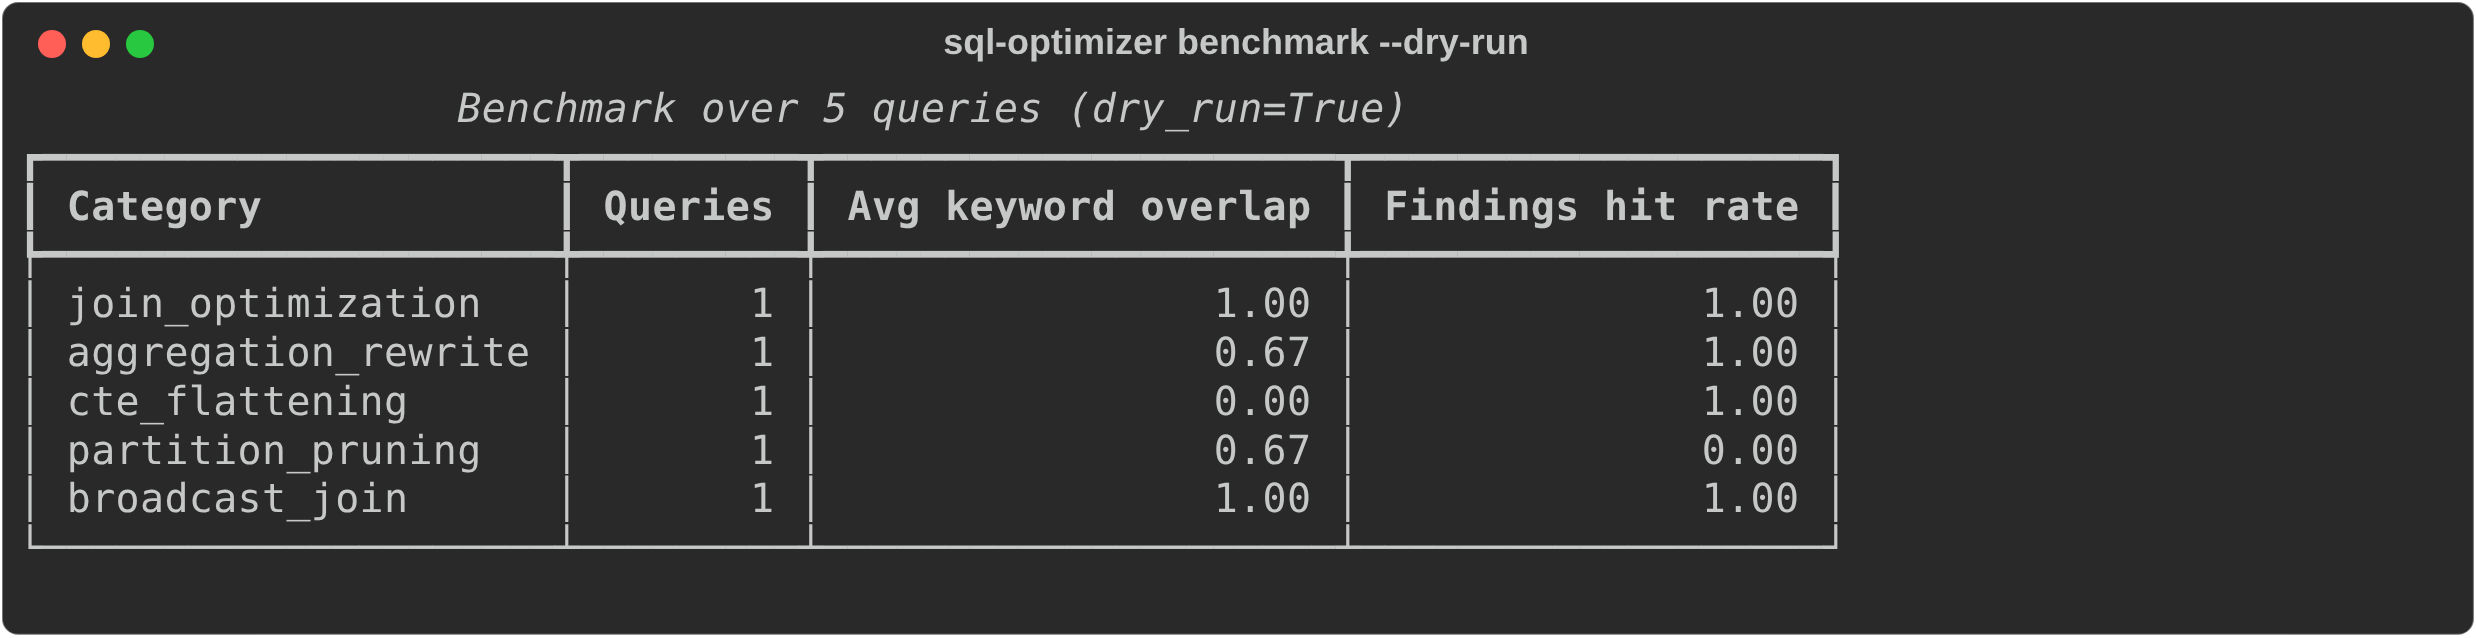
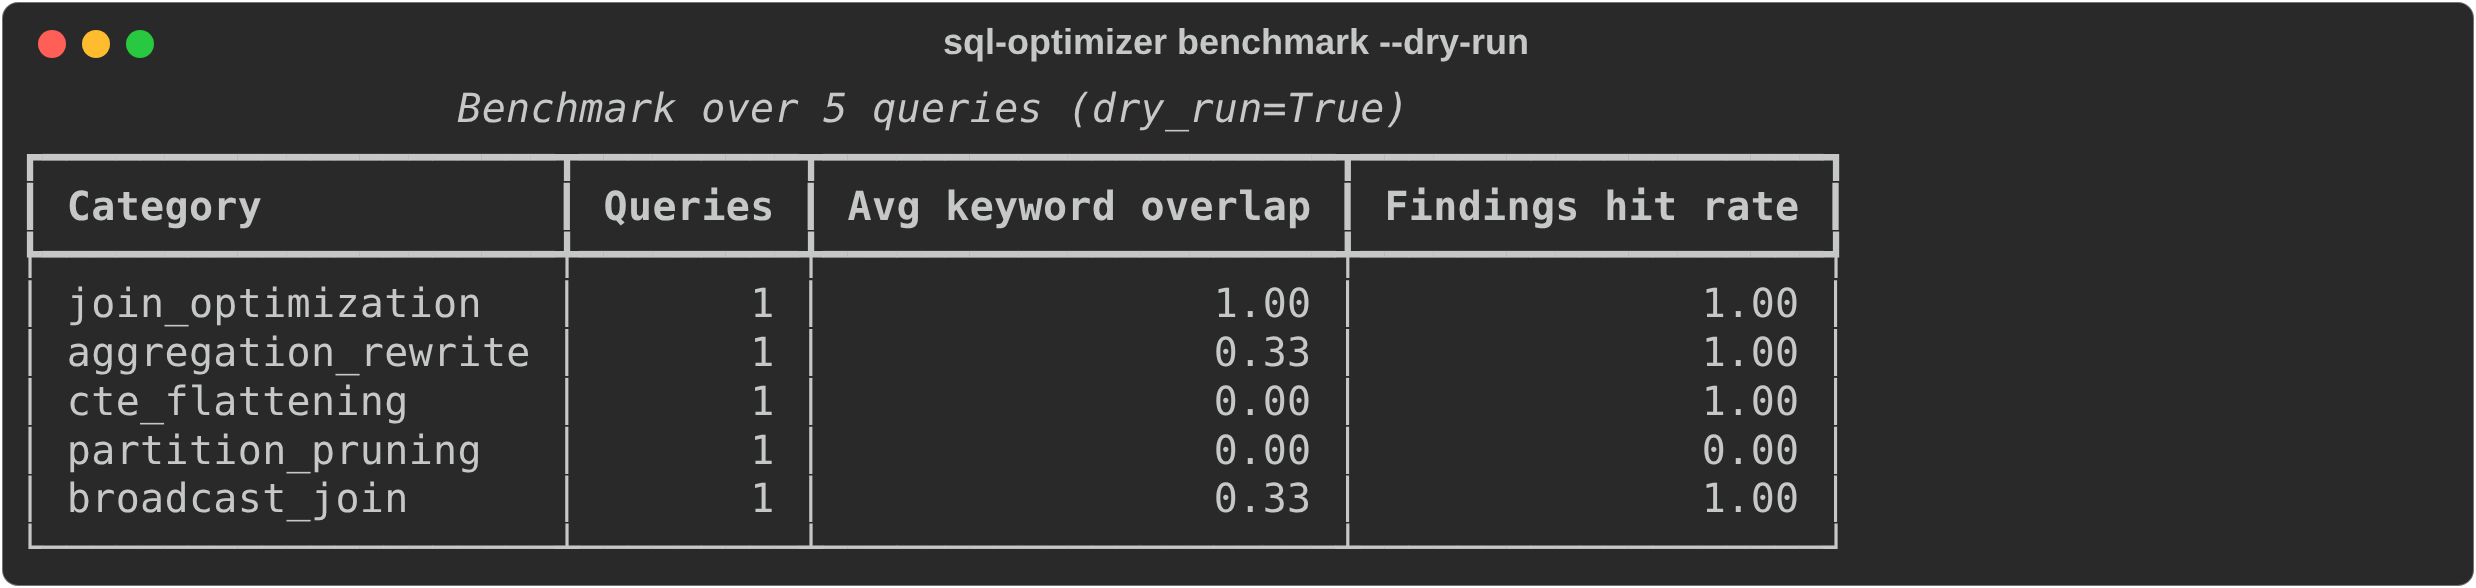
fix(sql-optimizer): score keyword overlap on tool output, not the query
benchmark._score() searched (sql + " ".join(findings)), so any expected
keyword already in the input query - table names, JOIN, words in the
explanatory comments - counted as a hit the analyzer never earned, and
the query's last token fused with the first finding. It now searches
only tool output: the finding messages, plus Claude's rewrite and
reasoning via keyword-only slots for a future live mode, joined with
newlines. findings_hit is unchanged.

Re-measured with make benchmark on 2026-10-05: mean keyword overlap is
0.33 (was 0.67). aggregation_rewrite and broadcast_join drop to 0.33,
and partition_pruning drops to 0.00 because it gets no finding.
Findings hit rate is unchanged at 4/5.

- tests: a keyword present only in the query text does not count;
  rewrite/reasoning text does (20 passed)
- README Results, methodology and the benchmark screenshot are updated;
  the hit-rate label now says "analyzer finding", not "correct finding"
- portfolio-site: the case-study copy now says 0.33. measured.json
  (still 0.67) is regenerated, not hand-edited, so it waits for PR #8's
  npm run measure.

Claude-Session: https://claude.ai/code/session_01JMo8Z3v6L6EdKjTZGtYbqr

diff --git a/project-ai-sql-optimizer/tests/test_benchmark.py b/project-ai-sql-optimizer/tests/test_benchmark.py
@@ -4,7 +4,7 @@ from __future__ import annotations
 
 from pathlib import Path
 
-from sql_optimizer.benchmark import run_benchmark
+from sql_optimizer.benchmark import GroundTruthEntry, _score, run_benchmark
 
 REPO = Path(__file__).resolve().parent.parent
 
@@ -30,3 +30,44 @@ def test_benchmark_skips_placeholder_files(tmp_path: Path):
         dry_run=True,
     )
     assert summary.evaluated == 0
+
+
+def test_keyword_only_in_query_text_does_not_count(tmp_path: Path):
+    # "dim_market" appears in the query (and its comment) but in no finding;
+    # "broadcast" appears only in the consider_broadcast finding.
+    (tmp_path / "q.sql").write_text(
+        "-- dim_market is tiny\n"
+        "SELECT f.id FROM fct f JOIN dim_market m ON f.market_id = m.market_id"
+    )
+    (tmp_path / "ground_truth.yaml").write_text(
+        "queries:\n"
+        "  - query_id: q\n"
+        "    category: broadcast_join\n"
+        "    expected_keywords: [broadcast, dim_market]\n"
+    )
+    summary = run_benchmark(
+        corpus_dir=tmp_path,
+        ground_truth_path=tmp_path / "ground_truth.yaml",
+        dry_run=True,
+    )
+    [evaluation] = summary.evaluations
+    assert evaluation.keyword_overlap == 0.5
+    assert evaluation.findings_hit
+
+
+def test_score_counts_rewrite_and_reasoning():
+    truth = GroundTruthEntry(
+        query_id="q",
+        category="cte_flattening",
+        expected_keywords=["single scan", "case when"],
+        expected_cost_direction="lower",
+    )
+    assert _score([], truth) == (0.0, False)
+    overlap, hit = _score(
+        [],
+        truth,
+        rewrite="SELECT SUM(CASE WHEN call_type = 'SMS' THEN 1 END) FROM cdr",
+        reasoning="Collapses three CTEs into a single scan.",
+    )
+    assert overlap == 1.0
+    assert not hit

diff --git a/project-ai-sql-optimizer/src/sql_optimizer/benchmark.py b/project-ai-sql-optimizer/src/sql_optimizer/benchmark.py
@@ -65,13 +65,21 @@ def _detect_dialect(sql: str) -> str:
 
 
 def _score(
-    sql: str,
     findings: list[str],
     truth: GroundTruthEntry | None,
+    *,
+    rewrite: str = "",
+    reasoning: str = "",
 ) -> tuple[float, bool]:
+    """Score what the tool produced: finding messages, plus Claude's rewrite and
+    reasoning once a live mode supplies them.
+
+    The input SQL is deliberately not searched - keywords it already contains
+    (table names, JOIN, its comments) would count as hits the tool never earned.
+    """
     if truth is None:
         return 0.0, False
-    haystack = (sql + " ".join(findings)).lower()
+    haystack = "\n".join([*findings, rewrite, reasoning]).lower()
     if not truth.expected_keywords:
         return 1.0, True
     hits = sum(1 for kw in truth.expected_keywords if kw in haystack)
@@ -97,7 +105,7 @@ def run_benchmark(
             continue
         analysis = analyze(sql, dialect=_detect_dialect(sql))
         finding_msgs = [f.message for f in analysis.findings]
-        overlap, hit = _score(sql, finding_msgs, truth.get(qid))
+        overlap, hit = _score(finding_msgs, truth.get(qid))
         evaluations.append(
             QueryEvaluation(
                 query_id=qid,

diff --git a/project-ai-sql-optimizer/README.md b/project-ai-sql-optimizer/README.md
@@ -81,7 +81,9 @@ ground-truth entry, and the corpus is designed to grow - adding a query
 is one `.sql` file plus one ground-truth entry.
 
 Each ground-truth entry lists expected keywords (substrings the
-suggestion should mention) and expected cost direction. The benchmark
+suggestion should mention) and expected cost direction. Keywords are
+matched against the tool's output only - never the input query, so a
+table name already in the SQL does not count as a hit. The benchmark
 prints per-category averages of keyword overlap and findings-hit rate.
 
 See [`docs/methodology.md`](docs/methodology.md) for scoring detail and
@@ -90,22 +92,27 @@ the limitations of these proxies.
 ## Results
 
 Measured with `make benchmark` in heuristic-only `--dry-run` mode (no
-API key), seeded 5-category corpus, Linux container, 2026-07. Reproduce
-with one command.
+API key), seeded 5-category corpus, Linux container. Keyword overlap,
+findings hit rate and unit tests re-measured 2026-10-05; wall clock
+from 2026-07. Reproduce with one command.
 
 | Metric | Measured |
 | --- | --- |
-| Avg keyword overlap vs ground truth (heuristics only) | 0.67 across 5 queries |
-| Findings hit rate (>= 1 correct finding per query) | 4 of 5 queries (0.80) |
+| Avg keyword overlap vs ground truth (findings only, heuristics only) | 0.33 across 5 queries |
+| Findings hit rate (>= 1 analyzer finding per query) | 4 of 5 queries (0.80) |
 | Benchmark wall clock | 0.34 s for the corpus (~68 ms per query) |
-| Unit tests | 18 passed |
+| Unit tests | 20 passed |
 
 ![sql-optimizer benchmark --dry-run: per-category keyword overlap and findings hit rate](docs/img/benchmark.png)
 
-The cte_flattening query scores 0.00 on keyword overlap in dry-run mode:
-its rewrite vocabulary ("single scan", "CASE") only appears once Claude
-proposes the rewrite - the heuristics alone flag the multi-scan pattern
-but do not name the fix. That gap is exactly what the LLM adds.
+Two categories score 0.00 on keyword overlap in dry-run mode. The
+cte_flattening query's rewrite vocabulary ("single scan", "CASE") only
+appears once Claude proposes the rewrite - the heuristics alone flag the
+multi-scan pattern but do not name the fix. That gap is exactly what the
+LLM adds. The partition_pruning query gets no finding at all: the
+benchmark passes no partition columns, so the missing-partition-predicate
+rule never fires and nothing names `ingest_date`. It is the one query of
+five without a finding.
 
 ### Planned evaluation (needs an engine and/or reviewers - not run here)
 

diff --git a/project-ai-sql-optimizer/docs/methodology.md b/project-ai-sql-optimizer/docs/methodology.md
@@ -28,9 +28,18 @@ Each query has a ground-truth entry in `corpus/ground_truth.yaml` with:
 The benchmark computes:
 
 - `keyword_overlap`: fraction of expected keywords that appear in the
-  rewrite or findings.
+  tool's output - the heuristic finding messages and, once a live mode
+  calls Claude, its rewrite and reasoning. The input query is never
+  searched: a keyword it already contains (a table name, `JOIN`, a word
+  in a comment) would otherwise count as a hit the tool never earned.
+  In `--dry-run` mode only the findings are scored.
 - `findings_hit_rate`: fraction of queries where the heuristic analyzer
   returned at least one finding.
+
+Correction: before 2026-10-05 the scorer also searched the input query
+text, including its explanatory comments, which inflated keyword
+overlap. Every keyword-overlap figure in the README is scored on tool
+output only.
 
 When run with `--no-dry-run`, an EXPLAIN runner (out of scope for this
 scaffold) compares cost before and after the suggested rewrite.
